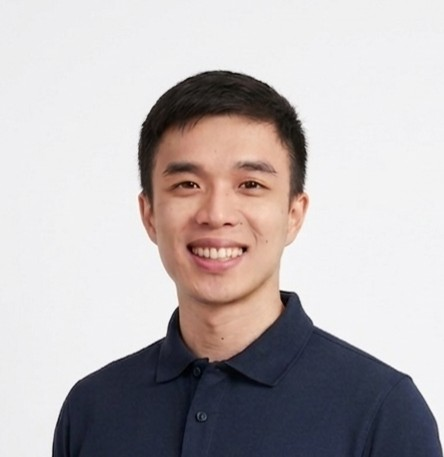
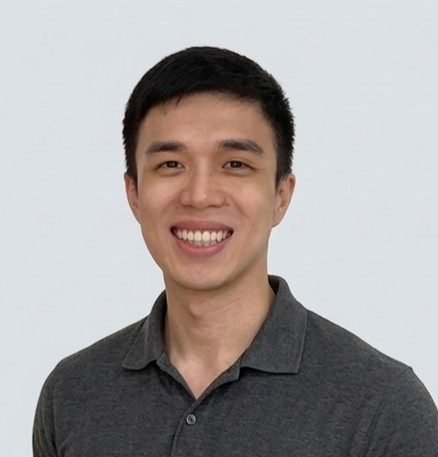
updated profile picture and colors

diff --git a/style.css b/style.css
@@ -4,9 +4,10 @@
 
 :root {
   --dark: #1e1e1e;
-  --darker: #121212;
+  --darker: #141414;
   --white: #ffffff;
-  --off-white: rgba(255,255,255,0.55);
+  --text-white: #F0F4F8;
+  --off-white: rgba(240,244,248,0.55);
   --mid: #888888;
   --rule: #e0e0e0;
   --fs-xs: 0.72rem;
@@ -70,7 +71,7 @@ body {
   height: 112px;
   border-radius: 50%;
   overflow: hidden;
-  box-shadow: 0 16px 48px rgba(0,0,0,0.5);
+  box-shadow: 0 20px 60px rgba(0,0,0,0.7), 0 6px 20px rgba(0,0,0,0.4);
   flex-shrink: 0;
 }
 .headshot-wrap img {
@@ -119,7 +120,7 @@ h1 {
   font-weight: 800;
   letter-spacing: -0.03em;
   line-height: 1.0;
-  color: var(--white);
+  color: var(--text-white);
 }
 
 .subtitle {
@@ -152,7 +153,7 @@ h1 {
 
 .bio-lead {
   font-size: var(--fs-base);
-  color: rgba(255,255,255,0.9);
+  color: var(--text-white);
   font-weight: 600;
   line-height: 1.8;
   margin-bottom: 0.75rem;
